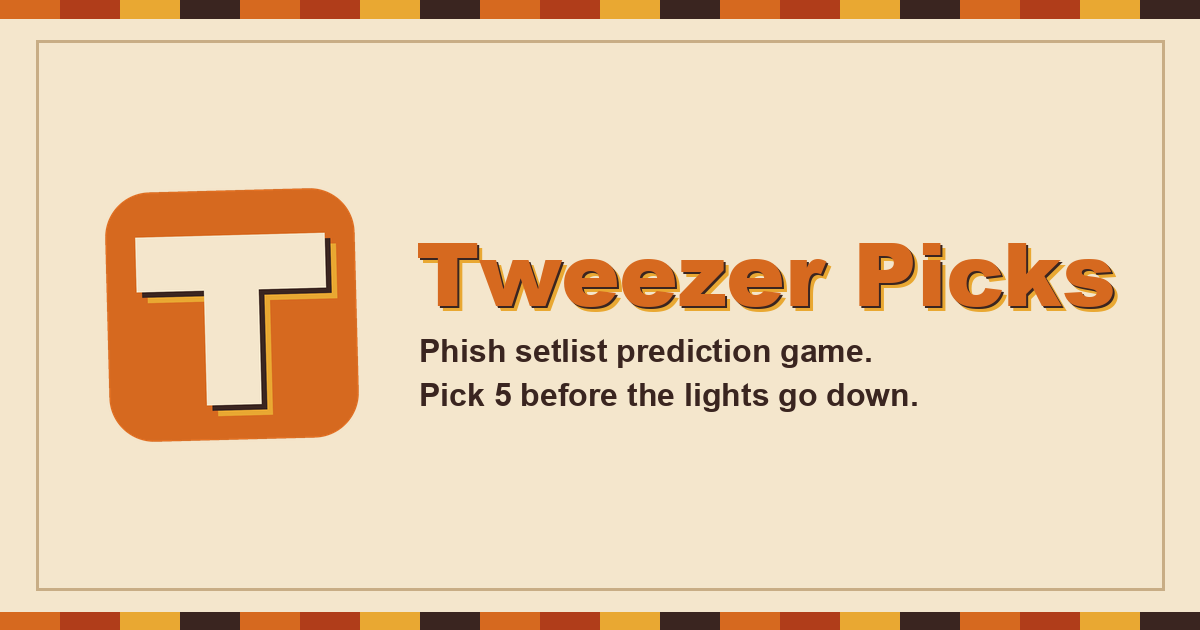
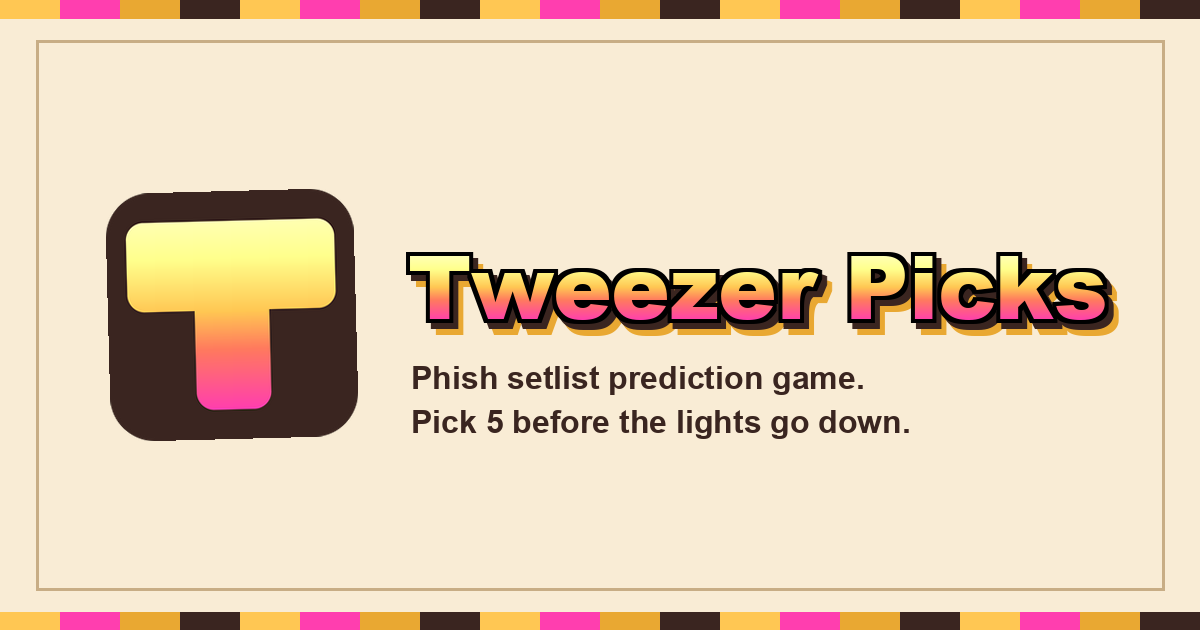
fix(branding): correct the mark's palette to the header's actual colours
The first pass drew the mark in orange #d6691f, read straight from
`color: var(--orange)` on `.brand` in lot-poster.css. That property never
renders. The header is set in Honk, a COLRv1 chromatic font, which carries
its own colour layers inside the font binary and paints them regardless of
the CSS `color`. Reading the stylesheet correctly still produced the wrong
answer, so the palette is now sampled pixel-by-pixel from the live header:
a vertical gradient from #FFFFB2 through amber #FFC753 and coral #FF7A5E to
hot pink #FF3EAF, with a heavy black outline. The `text-shadow` layers in
the CSS are genuine and do render, so --ink and --gold stay as they were.

Verified the ramp against the header rather than trusting it by eye: sampled
down a stroke of the rendered card and it tracks the source within a few
points at every stop.

The favicon drops the black outline and sits on an ink tile. Four candidates
were rendered and compared at actual size on a paper background, which is
where the paper-tile versions failed: a light tile has no edge against light
browser chrome, so the mark dissolves into the page instead of reading as an
icon. On an ink tile the outline is invisible and redundant, because the tile
already does the containing. Rejected: paper tile with outline (dissolves),
and both two-stop simplifications (legible, but they trade away the yellow
that makes the gradient recognisable). The same variant is used at every
size, so the 16px and the 512px read as one mark.
[…]

diff --git a/scripts/make_brand_assets.py b/scripts/make_brand_assets.py
@@ -6,9 +6,15 @@ rendered by browsers, OS docks and link unfurlers on machines that will not
 have the site's display face installed, so a font-name reference would render
 differently or not at all.
 
-Palette is the live Lot Poster theme (the header wordmark is orange on paper
-with an ink/gold letterpress offset), NOT the retired teal-green of the
-original platform placeholder.
+PALETTE PROVENANCE, and why the stylesheet alone was not enough. The header
+wordmark is set in Honk, which is a COLRv1 *chromatic* font: it carries its
+own colour layers inside the font binary and paints them regardless of the
+CSS ``color`` property. So ``lot-poster.css`` setting ``color: var(--orange)``
+on ``.brand`` is dead code, and reading the stylesheet gives a confidently
+wrong answer. The glyph is actually a vertical yellow-to-magenta gradient
+with a heavy black outline. The values below were sampled pixel-by-pixel from
+a screenshot of the live header. The ``text-shadow`` layers in the CSS are
+real and do render, so those two colours come from the stylesheet.
 
 Run from the repo root:
     python3 scripts/make_brand_assets.py
@@ -18,116 +24,174 @@ Writes into src/setlist_stash/static/. Regenerating is idempotent.
 
 from __future__ import annotations
 
+import itertools
 import pathlib
 
-from PIL import Image, ImageDraw, ImageFont
+from PIL import Image, ImageDraw, ImageFilter, ImageFont
 
-# --- Lot Poster palette (from the deployed theme's CSS custom properties) ---
-PAPER = "#f4e6cc"
-INK = "#3a2520"
-ORANGE = "#d6691f"
-GOLD = "#e9a832"
-BRICK = "#b03d1a"
-RULE = "#c8ad85"
+# --- Sampled from the live header (see module docstring) ---------------------
+# Vertical gradient across the glyph face, top to bottom.
+GRADIENT = [
+    (0.00, (0xFF, 0xFF, 0xB2)),  # pale-yellow highlight on the very top edge
+    (0.20, (0xFF, 0xFF, 0x8C)),
+    (0.48, (0xFF, 0xC7, 0x53)),  # amber
+    (0.68, (0xFF, 0x7A, 0x5E)),  # coral
+    (1.00, (0xFF, 0x3E, 0xAF)),  # hot pink
+]
+OUTLINE = (0x00, 0x00, 0x00)
+PAPER = (0xF9, 0xEC, 0xD5)
+INK = (0x3A, 0x25, 0x20)   # --ink, first text-shadow layer
+GOLD = (0xE9, 0xA8, 0x32)  # --gold, second text-shadow layer
+RULE = (0xC8, 0xAD, 0x85)
 
 STATIC = pathlib.Path(__file__).resolve().parent.parent / "src/setlist_stash/static"
 
 # --- Mark geometry, in a 100x100 unit square ---------------------------------
-# A heavy slab T that fills its tile. Sized so the 16x16 favicon keeps a ~3px
-# stem: anything lighter dissolves into the tab strip.
-TILE_RADIUS = 18.0
-BAR_X0, BAR_X1 = 12.0, 88.0     # crossbar horizontal extent
-BAR_Y0, BAR_Y1 = 18.0, 40.0     # crossbar vertical extent (22 thick)
-STEM_X0, STEM_X1 = 39.0, 61.0   # stem horizontal extent (22 wide)
-STEM_Y1 = 86.0                  # stem foot
+# A chunky, inflated slab T built as the union of two rounded rectangles. This
+# is an original letterform in the spirit of Honk, NOT a trace: the font is not
+# available here, and a bad trace reads worse than a clean original.
+BAR = (8.0, 12.0, 92.0, 48.0)    # crossbar: x0, y0, x1, y1
+STEM = (35.0, 12.0, 65.0, 88.0)  # stem
+CORNER = 7.0
+
+
+def _hex(rgb: tuple[int, int, int]) -> str:
+    return "#{:02X}{:02X}{:02X}".format(*rgb)
+
+
+def _lerp(a: int, b: int, t: float) -> int:
+    return round(a + (b - a) * t)
+
+
+def gradient_at(t: float) -> tuple[int, int, int]:
+    """Colour at position `t` (0 top, 1 bottom) along the glyph gradient."""
+    t = min(max(t, 0.0), 1.0)
+    for (p0, c0), (p1, c1) in itertools.pairwise(GRADIENT):
+        if t <= p1:
+            k = 0.0 if p1 == p0 else (t - p0) / (p1 - p0)
+            return (_lerp(c0[0], c1[0], k), _lerp(c0[1], c1[1], k),
+                    _lerp(c0[2], c1[2], k))
+    return GRADIENT[-1][1]
 
 
 def svg_markup() -> str:
-    """The scalable mark. Flat two-colour by design.
+    """The scalable mark, matching the chosen raster variant.
 
-    The wordmark's letterpress offset (ink at 2px, gold at 4px) is deliberately
-    NOT reproduced here. Layered offsets turn to mud below ~32px, and this one
-    file is what a browser renders at 16px in a tab. The full treatment lives on
-    the 180px touch icon and the social card, which are never shown small.
+    Ink tile plus gradient glyph, no font reference and no black outline (see
+    render_mark for why the outline is dropped).
     """
-    path = (
-        f"M{BAR_X0:g} {BAR_Y0:g}H{BAR_X1:g}V{BAR_Y1:g}H{STEM_X1:g}"
-        f"V{STEM_Y1:g}H{STEM_X0:g}V{BAR_Y1:g}H{BAR_X0:g}Z"
+    stops = "".join(
+        f'\n      <stop offset="{p * 100:g}%" stop-color="{_hex(c)}"/>'
+        for p, c in GRADIENT
+    )
+    glyph = "".join(
+        f'\n  <rect x="{x0:g}" y="{y0:g}" width="{x1 - x0:g}"'
+        f' height="{y1 - y0:g}" rx="{CORNER:g}" fill="url(#g)"/>'
+        for x0, y0, x1, y1 in (BAR, STEM)
     )
     return (
         '<svg xmlns="http://www.w3.org/2000/svg" viewBox="0 0 100 100"'
         ' width="100" height="100" role="img" aria-label="Tweezer Picks">\n'
-        f'  <rect x="0" y="0" width="100" height="100"'
-        f' rx="{TILE_RADIUS:g}" fill="{ORANGE}"/>\n'
-        f'  <path d="{path}" fill="{PAPER}"/>\n'
-        "</svg>\n"
+        "  <defs>\n"
+        '    <linearGradient id="g" gradientUnits="userSpaceOnUse"'
+        f' x1="0" y1="{BAR[1]:g}" x2="0" y2="{STEM[3]:g}">{stops}\n'
+        "    </linearGradient>\n"
+        "  </defs>\n"
+        f'  <rect x="0" y="0" width="100" height="100" rx="18"'
+        f' fill="{_hex(INK)}"/>'
+        + glyph
+        + "\n</svg>\n"
     )
 
 
-def _rounded_tile(size: int, fill: str, supersample: int = 16) -> Image.Image:
-    """Tile with smooth corners, drawn big and downsampled."""
-    big = size * supersample
-    img = Image.new("RGBA", (big, big), (0, 0, 0, 0))
-    ImageDraw.Draw(img).rounded_rectangle(
-        [0, 0, big - 1, big - 1], radius=TILE_RADIUS / 100.0 * big, fill=fill
-    )
-    return img.resize((size, size), Image.LANCZOS)
+# --- Raster rendering --------------------------------------------------------
+SS = 8  # supersample factor; a gradient plus an outline cannot be pixel-snapped
 
 
-def _snap(v: float, size: int) -> int:
-    """Map a 0-100 unit coordinate to an integer pixel at `size`.
+def _shape_mask(px: int, inset_units: float) -> Image.Image:
+    """8-bit mask of the T, optionally inflated by `inset_units` (0-100 space)."""
+    m = Image.new("L", (px, px), 0)
+    d = ImageDraw.Draw(m)
+    for x0, y0, x1, y1 in (BAR, STEM):
+        d.rounded_rectangle(
+            [(x0 - inset_units) / 100 * px, (y0 - inset_units) / 100 * px,
+             (x1 + inset_units) / 100 * px, (y1 + inset_units) / 100 * px],
+            radius=(CORNER + inset_units) / 100 * px,
+            fill=255,
+        )
+    return m
 
-    The T is snapped to whole pixels rather than supersampled with the tile.
-    Downsampling a small glyph softens every edge; snapping keeps the stem a
-    hard-edged run of pixels, which is the whole game at 16x16.
+
+def _gradient_image(w: int, h: int, top_px: float, bot_px: float,
+                    stops: list | None = None) -> Image.Image:
+    """Vertical gradient sized `w` x `h`, ramping between two PIXEL rows.
+
+    Bounds are pixels rather than a normalised square: building a square and
+    resizing it to a wide box squashes the ramp, which silently flattened the
+    wordmark to its end colour.
     """
-    return round(v / 100.0 * size)
-
-
-def render_mark(size: int, letterpress: bool = False) -> Image.Image:
-    """The mark at `size` px. Smooth tile corners, pixel-crisp T."""
-    img = _rounded_tile(size, ORANGE)
+    img = Image.new("RGB", (w, h))
     d = ImageDraw.Draw(img)
-
-    def draw_t(dx: int, dy: int, fill: str) -> None:
-        d.rectangle(
-            [_snap(BAR_X0, size) + dx, _snap(BAR_Y0, size) + dy,
-             _snap(BAR_X1, size) + dx - 1, _snap(BAR_Y1, size) + dy - 1],
-            fill=fill,
-        )
-        d.rectangle(
-            [_snap(STEM_X0, size) + dx, _snap(BAR_Y0, size) + dy,
-             _snap(STEM_X1, size) + dx - 1, _snap(STEM_Y1, size) + dy - 1],
-            fill=fill,
-        )
-
-    if letterpress:
-        # Only at sizes where two offsets stay separable.
-        off = max(1, size // 45)
-        draw_t(off * 2, off * 2, GOLD)
-        draw_t(off, off, INK)
-    draw_t(0, 0, PAPER)
+    for y in range(h):
+        t = (y - top_px) / max(bot_px - top_px, 1e-6)
+        if stops is not None:
+            t = min(max(t, 0.0), 1.0)
+            c = tuple(_lerp(stops[0][i], stops[1][i], t) for i in range(3))
+        else:
+            c = gradient_at(t)
+        d.line([(0, y), (w, y)], fill=c)
     return img
+
+
+def render_mark(size: int, variant: str = "no_outline_ink") -> Image.Image:
+    """The mark at `size` px.
+
+    The default drops the header's black outline and sets the glyph on an ink
+    tile. Chosen by rendering the candidates and looking at them at actual size
+    against a paper background, which is where the alternatives failed: a paper
+    tile has no edge against light browser chrome, so the mark dissolves into
+    the page instead of reading as an icon. On an ink tile the black outline is
+    both invisible and redundant, because the tile already does the containing.
+    The other variants are kept selectable so this comparison can be redone.
+    """
+    px = size * SS
+    two_stop = [GRADIENT[1][1], GRADIENT[-1][1]]
+
+    if variant == "outline_paper":
+        tile, stops, outline = PAPER, None, True
+    elif variant == "no_outline_ink":
+        tile, stops, outline = INK, None, False
+    elif variant == "two_stop":
+        tile, stops, outline = INK, two_stop, False
+    elif variant == "two_stop_outline":
+        tile, stops, outline = PAPER, two_stop, True
+    else:
+        raise ValueError(f"unknown variant {variant!r}")
+
+    img = Image.new("RGB", (px, px), tile)
+    if outline:
+        img.paste(OUTLINE, (0, 0), _shape_mask(px, 3.0))
+    img.paste(
+        _gradient_image(px, px, BAR[1] / 100 * px, STEM[3] / 100 * px, stops),
+        (0, 0), _shape_mask(px, 0.0))
+
+    out = img.resize((size, size), Image.LANCZOS)
+    # Round the tile itself only where it is big enough to read as a corner.
+    if size >= 48:
+        rounded = Image.new("RGBA", (size, size), (0, 0, 0, 0))
+        corner = Image.new("L", (px, px), 0)
+        ImageDraw.Draw(corner).rounded_rectangle(
+            [0, 0, px - 1, px - 1], radius=0.18 * px, fill=255
+        )
+        rounded.paste(out, (0, 0), corner.resize((size, size), Image.LANCZOS))
+        return rounded
+    return out.convert("RGBA")
 
 
 # --- Social card -------------------------------------------------------------
 OG_W, OG_H = 1200, 630
-MARGIN = 72  # safe margin: keeps content clear of platform corner crops
 BLACK_FONT = "/System/Library/Fonts/Supplemental/Arial Black.ttf"
 BOLD_FONT = "/System/Library/Fonts/Supplemental/Arial Bold.ttf"
-
-
-def _rotated_mark(size: int, degrees: float) -> Image.Image:
-    """Rotate the mark without smearing the letterpress offsets.
-
-    Rotating at final size resamples the 4-5px ink/gold offsets into mush.
-    Rendering 4x, rotating, then downsampling keeps them as clean edges.
-    """
-    hi = render_mark(size * 4, letterpress=True)
-    hi = hi.rotate(degrees, resample=Image.BICUBIC, expand=True)
-    return hi.resize(
-        (round(hi.width / 4), round(hi.height / 4)), Image.LANCZOS
-    )
 
 
 def _fit_font(path: str, text: str, max_w: int, start: int) -> ImageFont.FreeTypeFont:
@@ -145,6 +209,25 @@ def _fit_font(path: str, text: str, max_w: int, start: int) -> ImageFont.FreeTyp
     return ImageFont.truetype(path, 24)
 
 
+def _wordmark(text: str, font: ImageFont.FreeTypeFont, pad: int = 40
+              ) -> Image.Image:
+    """Wordmark with the header's full stack: gold and ink offsets, black
+    outline, gradient face. Drawn back to front, matching the live header.
+    """
+    bb = font.getbbox(text)
+    w, h = bb[2] + pad * 2, bb[3] + pad * 2
+    face = Image.new("L", (w, h), 0)
+    ImageDraw.Draw(face).text((pad, pad), text, font=font, fill=255)
+    outline = face.filter(ImageFilter.MaxFilter(9))
+
+    img = Image.new("RGBA", (w, h), (0, 0, 0, 0))
+    img.paste(GOLD, (10, 12), outline)   # furthest offset, --gold
+    img.paste(INK, (5, 6), outline)      # --ink
+    img.paste(OUTLINE, (0, 0), outline)  # the font's own heavy black outline
+    img.paste(_gradient_image(w, h, bb[1] + pad, bb[3] + pad), (0, 0), face)
+    return img
+
+
 def render_og(title: str, taglines: list[str]) -> Image.Image:
     """1200x630 link-unfurl card. Carries the full poster treatment.
 
@@ -154,46 +237,37 @@ def render_og(title: str, taglines: list[str]) -> Image.Image:
     img = Image.new("RGB", (OG_W, OG_H), PAPER)
     d = ImageDraw.Draw(img)
 
-    # Poster stripes top and bottom, echoing the theme's .brand-rule bands.
     band_h = 18
     for x in range(0, OG_W, 60):
-        colour = [ORANGE, BRICK, GOLD, INK][(x // 60) % 4]
+        colour = [GRADIENT[2][1], GRADIENT[4][1], GOLD, INK][(x // 60) % 4]
         d.rectangle([x, 0, x + 60, band_h], fill=colour)
         d.rectangle([x, OG_H - band_h, x + 60, OG_H], fill=colour)
 
-    # Inner keyline, the letterpress border.
     d.rectangle(
         [36, band_h + 22, OG_W - 36, OG_H - band_h - 22], outline=RULE, width=3
     )
 
-    # Mark, tilted like the header wordmark (which sits at rotate(-1.5deg)).
-    mark_size = 250
-    mark = _rotated_mark(mark_size, 1.5)
+    mark_size = 248
+    mark = render_mark(mark_size).rotate(
+        1.5, resample=Image.BICUBIC, expand=True
+    )
     mark_x = 104
     img.paste(mark, (mark_x, (OG_H - mark.height) // 2), mark)
 
-    text_x = mark_x + mark_size + 62
+    text_x = mark_x + mark_size + 56
     avail_w = OG_W - text_x - 84
-    title_font = _fit_font(BLACK_FONT, title, avail_w, 100)
+    title_font = _fit_font(BLACK_FONT, title, avail_w, 104)
+    word = _wordmark(title, title_font)
     tag_font = ImageFont.truetype(BOLD_FONT, 32)
 
-    title_h = title_font.getbbox(title)[3]
     line_h = 44
-    block_h = title_h + 26 + line_h * len(taglines)
+    block_h = word.height + line_h * len(taglines)
     ty = (OG_H - block_h) // 2
-
-    # Wordmark with the ink/gold letterpress offset from .brand.
-    d.text((text_x + 5, ty + 5), title, font=title_font, fill=GOLD)
-    d.text((text_x + 2, ty + 2), title, font=title_font, fill=INK)
-    d.text((text_x, ty), title, font=title_font, fill=ORANGE)
+    img.paste(word, (text_x - 40, ty), word)
 
     for i, line in enumerate(taglines):
-        d.text(
-            (text_x + 3, ty + title_h + 26 + i * line_h),
-            line,
-            font=tag_font,
-            fill=INK,
-        )
+        d.text((text_x + 3, ty + word.height + i * line_h), line,
+               font=tag_font, fill=INK)
     return img
 
 
@@ -203,22 +277,19 @@ def main() -> None:
     (STATIC / "logo-tweezer.svg").write_text(svg_markup())
 
     render_mark(192).save(STATIC / "logo-tweezer-192.png")
-    render_mark(512, letterpress=True).save(STATIC / "logo-tweezer-512.png")
-    render_mark(180, letterpress=True).save(STATIC / "apple-touch-icon-tweezer.png")
+    render_mark(512).save(STATIC / "logo-tweezer-512.png")
+    render_mark(180).save(STATIC / "apple-touch-icon-tweezer.png")
 
-    # Multi-size ICO for browsers and bookmark bars that ignore the SVG.
-    # Each frame is rendered NATIVELY at its own size. Handing Pillow one large
-    # image plus `sizes=` makes it downsample internally, which discards the
-    # per-size pixel snapping above and visibly softens the 16px frame.
-    # The LARGEST frame must be the base image: Pillow drops any requested size
-    # bigger than the image it is called on, so basing this on the 16px render
-    # silently yields a single-frame icon.
-    ico_frames = [render_mark(s) for s in (48, 32, 16)]
-    ico_frames[0].save(
+    # Each frame rendered NATIVELY at its own size. Handing Pillow one large
+    # image plus `sizes=` makes it downsample internally, which visibly softens
+    # the 16px frame. The largest must be the base image: Pillow drops any
+    # requested size bigger than the image it is called on.
+    frames = [render_mark(s) for s in (48, 32, 16)]
+    frames[0].save(
         STATIC / "favicon-tweezer.ico",
         format="ICO",
         sizes=[(16, 16), (32, 32), (48, 48)],
-        append_images=ico_frames[1:],
+        append_images=frames[1:],
     )
 
     render_og(
